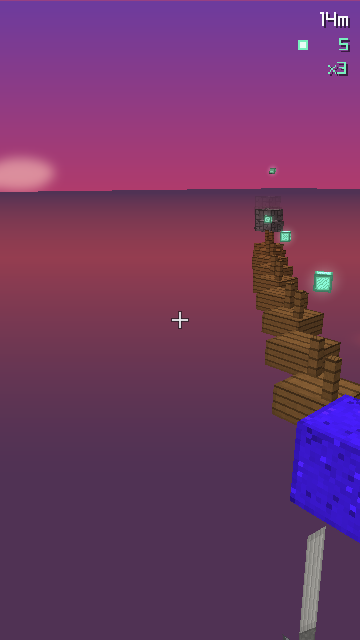
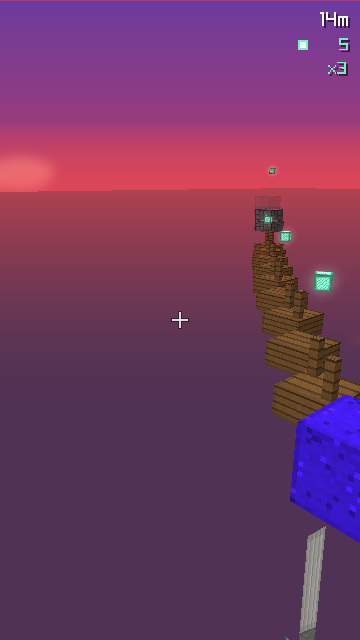
Put the horizon haze where the horizon actually is
The band was pinned to a fixed fraction of the frame, but the camera pitches
with the jump, so at dusk -- when the head was up -- a strip of unhazed deep
purple sea sat above the pink haze with a hard edge on both sides of it. It
looked like a bruise across the middle of the picture.

Where the sea ends is projected now instead of guessed: a point at eye height
and effectively infinite distance is the horizon by definition, whatever the
camera is doing. The band is hung from that, clamped in case a projection
degenerates.

Also drops two counters the scene kept and nothing read.

Changed region(s): [[0.0, 0.1875, 1.0, 0.375]]

diff --git a/src/brainrot/scenes/parkour.py b/src/brainrot/scenes/parkour.py
@@ -183,7 +183,6 @@ class ParkourScene(Scene):
         self.vy = 0.0
         self.land_dip = 0.0
         self.distance = 0.0
-        self.hops = 0
         self.yaw = self.heading
         self._roll = 0.0
 
@@ -191,7 +190,6 @@ class ParkourScene(Scene):
         self.orbs = 0
         self.orbs_missed = 0
         self.combo = 0
-        self.best_combo = 0
         self.combo_t = 0.0
 
         # -- world below ---------------------------------------------------
@@ -663,7 +661,6 @@ class ParkourScene(Scene):
         self.phase_t = 0.0
         self.land_dip = 1.0
         self.swing = 1.0
-        self.hops += 1
         landed_on = self.blocks[self.jump_index]
         # a scuff of block-coloured dust at the feet, kicked up by the landing
         self.burst.spawn(self.stand[0], self.stand[1] - 0.1, self.stand[2],
@@ -799,7 +796,6 @@ class ParkourScene(Scene):
                 orb["taken"] = True
                 self.orbs += 1
                 self.combo += 1
-                self.best_combo = max(self.best_combo, self.combo)
                 self.combo_t = COMBO_HOLD
                 self.burst.spawn(orb["x"], orb["y"], orb["z"], ORB_COLOR,
                                  count=9, speed=2.2, rng=self.hop_rng)
@@ -876,16 +872,22 @@ class ParkourScene(Scene):
         # became an orange wash laid over the middle of the frame.
         # The sea is one flat plane with no distance shading of its own, so
         # without this it meets the sky along a drawn line rather than
-        # dissolving into one. The band therefore has to be near its strongest
-        # exactly where the sea ends -- a little above 0.42 of the frame -- and
-        # fade downward from there. It also fades *in* at its top edge, because
-        # a band that starts at full strength draws its own line across the sky
-        # a few rows above the one it was meant to hide.
+        # dissolving into one. The band therefore has to be strongest exactly
+        # where the sea ends and fade downward from there, and it has to fade
+        # *in* at its top edge, or it draws its own line across the sky a few
+        # rows above the one it was meant to hide.
+        #
+        # Where the sea ends is not a fixed fraction of the frame: the camera
+        # pitches with the jump. So it is projected rather than guessed -- a
+        # point at eye height and effectively infinite distance is the horizon
+        # by definition. Pinning it to a constant left a bruise-coloured strip
+        # of unhazed water above the haze whenever the head was up.
         band = textures.alpha_band(f"haze-{self.ctx.seed.run}", pal.fog, 235, 1.7,
-                                   ramp=0.09)
-        horizon = int(self.height * 0.355)
+                                   ramp=0.22)
+        horizon = self._horizon_y()
         rl.DrawTexturePro(band, (0, 0, 4, 128),
-                          (0, horizon, self.width, int(self.height * 0.45)),
+                          (0, horizon - int(self.height * 0.09), self.width,
+                           int(self.height * 0.45)),
                           (0, 0), 0.0, rl.WHITE4)
         rl.BeginMode3D(cam[0])
 
@@ -954,6 +956,24 @@ class ParkourScene(Scene):
         fx, fz = math.sin(self.yaw), -math.cos(self.yaw)
         cam.up = (math.sin(self._roll) * -fz, math.cos(self._roll), math.sin(self._roll) * fx)
         cam.fovy = 70.0 + (2.5 if self.phase == "air" else 0.0)
+
+    def _horizon_y(self) -> int:
+        """Screen row the sea's horizon falls on, this frame.
+
+        A point at eye height and effectively infinite distance projects to it
+        exactly, whatever the camera is doing. Clamped, because a projection
+        can degenerate and a haze band flung off the top of the frame would
+        take the horizon's disguise with it.
+        """
+        cam = self.camera
+        far = (cam.position.x + math.sin(self.yaw) * 1e5,
+               cam.position.y,
+               cam.position.z - math.cos(self.yaw) * 1e5)
+        try:
+            y = int(rl.GetWorldToScreen(far, cam[0]).y)
+        except Exception:
+            y = int(self.height * 0.42)
+        return max(int(self.height * 0.18), min(int(self.height * 0.68), y))
 
     def _draw_ocean(self, x: float, z: float) -> None:
         pal = self.palette
